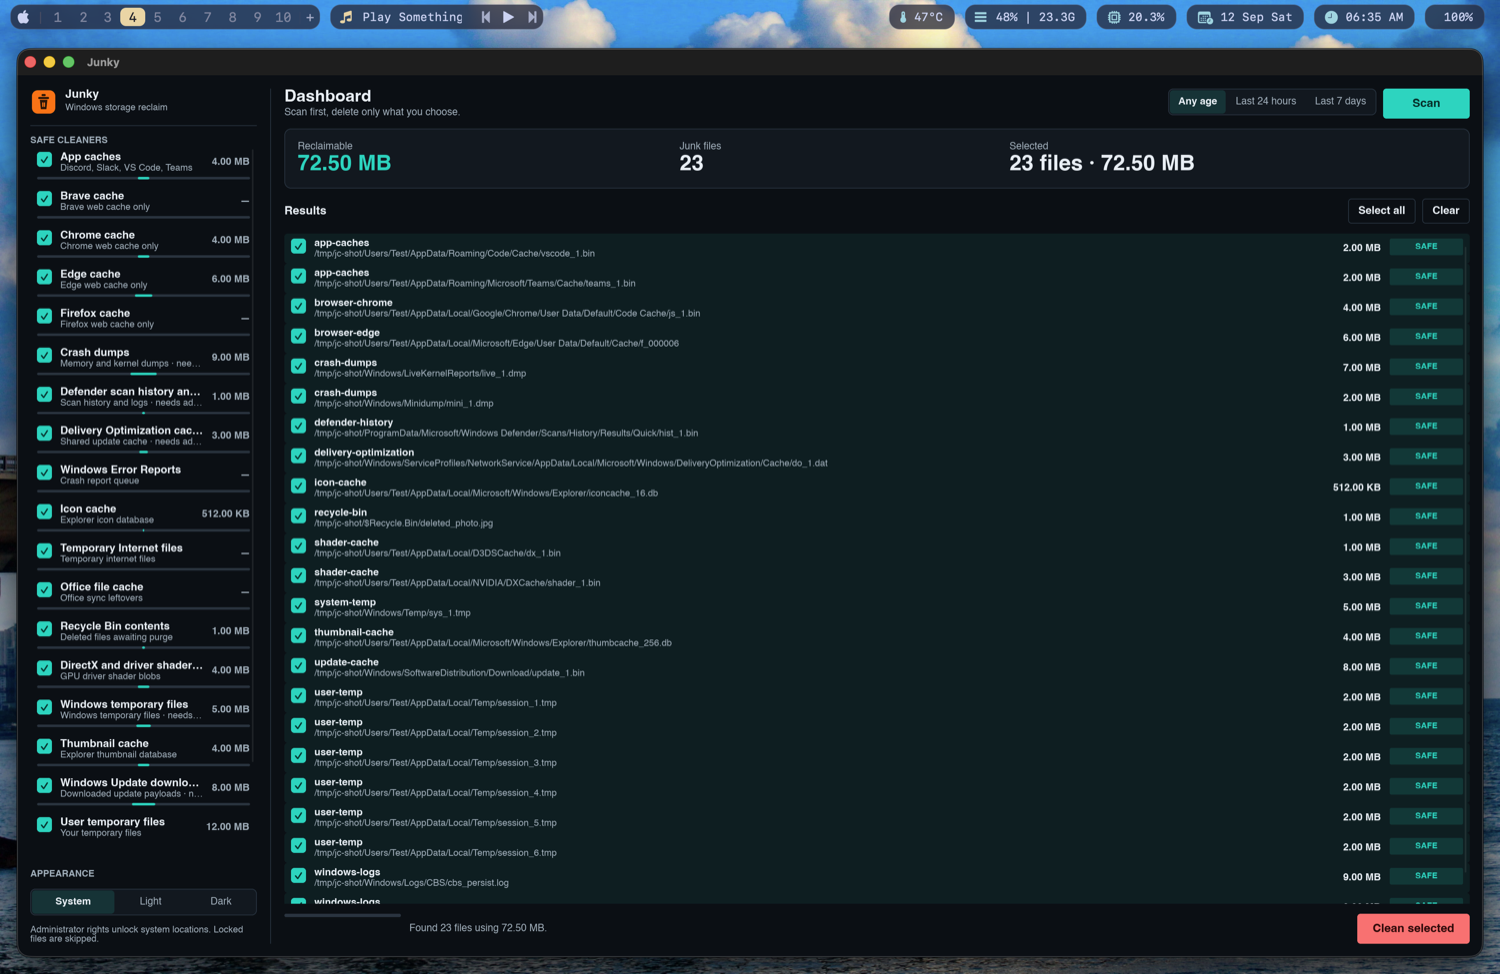
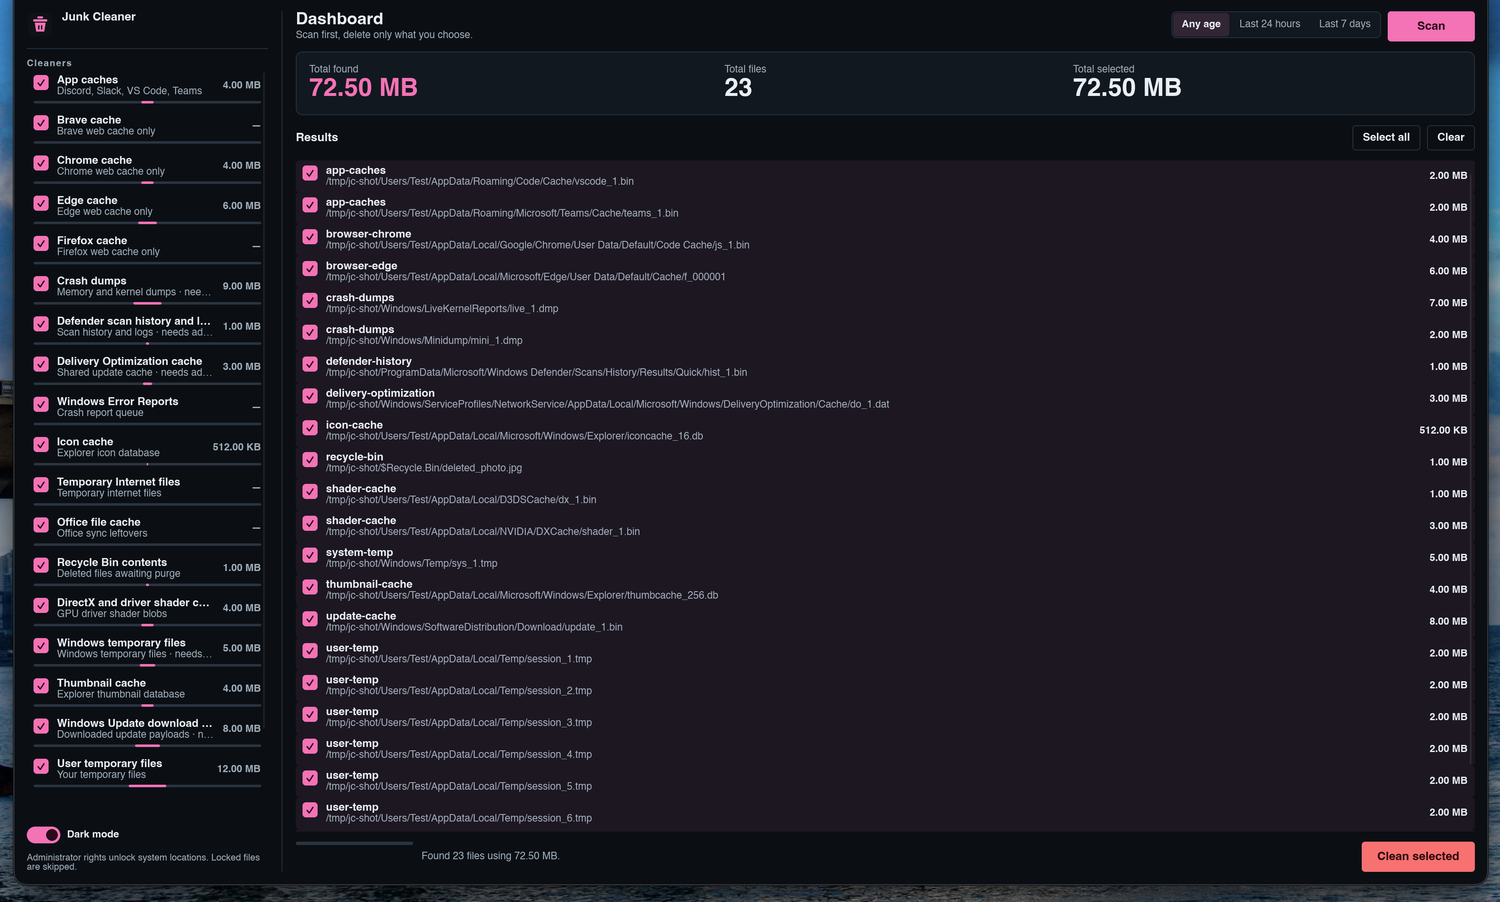
docs: single app-only screenshot in pink theme

diff --git a/README.md b/README.md
@@ -24,11 +24,6 @@ Portable, no installer. Admin rights unlock system locations. Everything else wo
   <br>
   <em>Scan results with per file selection and size badges.</em>
 </p>
-<p align="center">
-  <img src="assets/screenshots/dialog.png" width="640" alt="Junky delete confirmation dialog">
-  <br>
-  <em>The confirm step lists exactly what will go.</em>
-</p>
 
 ## Why Junky
 
